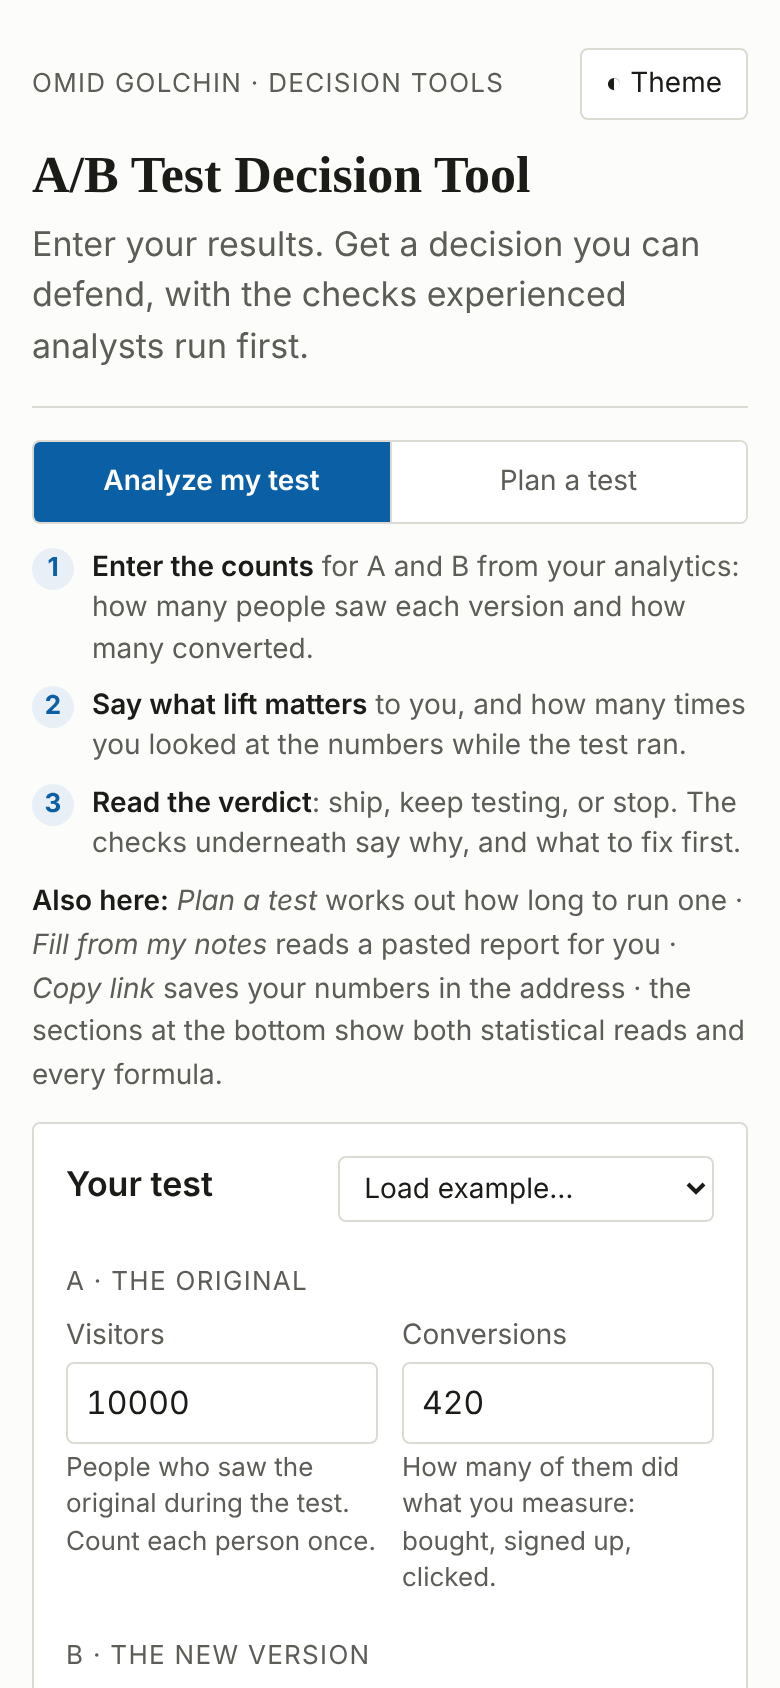
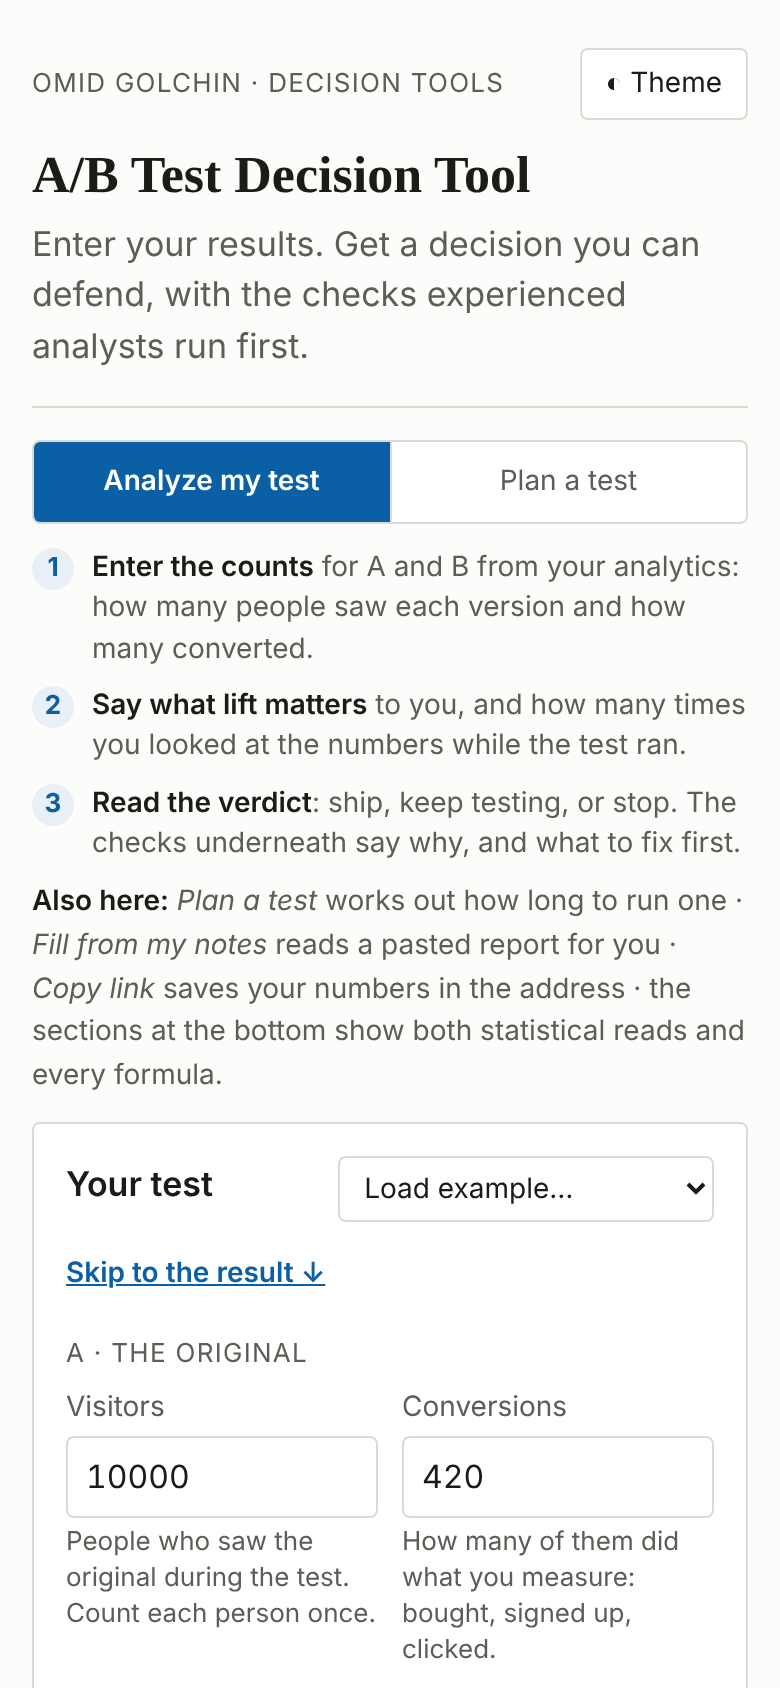
Plan examples, plainer settings, posterior and credible-interval explanations; one peeking figure everywhere
Kit: every ? has a hover title, a Skip to the result link on narrow screens, and an example banner for prefilled demo content. README, hero GIF and screenshots regenerated from the page.

Changed region(s): [[0.0615, 0.7393, 0.4923, 0.9858], [0.4615, 0.7701, 0.8923, 0.9858], [0.8923, 0.8318, 0.9231, 0.8626]]

diff --git a/docs/app.js b/docs/app.js
@@ -188,7 +188,7 @@
     if (v.checks <= 1) out.push(["ok", "OK", "Peeking", "Read once, so the plain p-value means what it says."]);
     else {
       var f = d.peekFpr;
-      out.push(["warn", "ADJUSTED", "Peeking", "Checked " + v.checks + " times. A plain p-value would be fooled " + (f ? "about " + Math.round(100 * f) + "%" : "nearly 30%") + " of the time instead of 5%, so this read uses the always-valid p-value (" + pFmt(d.alwaysValidP) + ")."]);
+      out.push(["warn", "ADJUSTED", "Peeking", "Checked " + v.checks + " times. A plain p-value would be fooled " + (f ? "about " + Math.round(100 * f) + "%" : "up to 29% (after 40 looks)") + " of the time instead of 5%, so this read uses the always-valid p-value (" + pFmt(d.alwaysValidP) + ")."]);
     }
     out.push(d.small
       ? ["warn", "SMALL", "Sample size", "Under 10 conversions or non-conversions in a version: intervals and p-values are unreliable here."]
@@ -297,6 +297,19 @@
   }
 
   /* ---------- plan ---------- */
+  var PLAN_EX = [
+    { label: "Busy checkout: 20,000 visitors a day at 4.2%", v: { pRate: 4.2, pMde: 5, pMdeUnit: "rel", pTraffic: 20000, pVersions: "2", pPower: "0.8", pAlpha: 5 } },
+    { label: "Small site: 600 a day at 3%, looking for a 20% lift", v: { pRate: 3, pMde: 20, pMdeUnit: "rel", pTraffic: 600, pVersions: "2", pPower: "0.8", pAlpha: 5 } },
+    { label: "Newsletter sign-up: 2,500 a day at 12%, three versions", v: { pRate: 12, pMde: 8, pMdeUnit: "rel", pTraffic: 2500, pVersions: "3", pPower: "0.8", pAlpha: 5 } },
+    { label: "Low-traffic B2B demo form: 150 a day at 2%", v: { pRate: 2, pMde: 30, pMdeUnit: "rel", pTraffic: 150, pVersions: "2", pPower: "0.8", pAlpha: 10 } }
+  ];
+  PLAN_EX.forEach(function (ex, i) { var o = document.createElement("option"); o.value = i; o.textContent = ex.label; $("pExample").appendChild(o); });
+  $("pExample").addEventListener("change", function () {
+    if (this.value === "") return;
+    var ex = PLAN_EX[+this.value]; this.value = "";
+    Object.keys(ex.v).forEach(function (k) { $(k).value = ex.v[k]; });
+    runPlan();
+  });
   function runPlan() {
     var v = { pRate: num("pRate"), pMde: num("pMde"), pMdeUnit: $("pMdeUnit").value, pTraffic: num("pTraffic"),
       pVersions: Number($("pVersions").value), pPower: Number($("pPower").value), pAlpha: num("pAlpha") };
@@ -356,7 +369,7 @@
   Tool.explain({
     lift: { t: "Lift: relative or points", d: "Two ways to say how much better B is. If A converts at 4.0% and B at 4.4%, the difference is 0.4 <i>points</i>, which is a 10% <i>relative</i> lift (0.4 ÷ 4.0). Pick whichever your team uses; the tool converts between them." },
     points: { t: "Difference in points", d: "B's conversion rate minus A's, in percentage points. 4.4% − 4.0% = +0.4 points." },
-    peeking: { t: "Why the number of looks matters", d: "A classic p-value assumes you read the result once. If you check daily and stop the first time it dips below 5%, the real chance of a false win can pass 25%. With more than one look the tool switches to an <i>always-valid</i> p-value, which stays honest however often you check." },
+    peeking: { t: "Why the number of looks matters", d: "A classic p-value assumes you read the result once. If you check daily and stop the first time it dips below 5%, the real chance of a false win climbs: in this repository's simulation of two identical versions, 29% after 40 looks. The verdict states the figure for your own number of looks. With more than one look the tool switches to an <i>always-valid</i> p-value, which stays honest however often you check." },
     srm: { t: "Broken split (sample ratio mismatch)", d: "If you planned 50/50 but got 10,000 vs 9,400 visitors, something in the setup is dropping or misrouting people, and the comparison is no longer fair. A chi-square test flags splits that chance alone almost never produces (p &lt; 0.001). Fix the setup before trusting any result." },
     interval: { t: "Reading the interval chart", d: "Each bar is the range of differences the data still allow, at 95%. The dot is the best estimate. If the whole bar sits right of zero, B is better; if it overlaps the shaded band, the gain could be too small to matter. The two rows use two methods (classic and Bayesian); they usually agree, and the tool tells you when they do not." },
     probbetter: { t: "Chance B is better", d: "From a Bayesian read of the same counts: given what the test saw, the probability that B's true rate is above A's. Unlike a p-value, it answers the question people actually ask. It is computed from Beta distributions for each rate." },
@@ -367,6 +380,8 @@
     avp: { t: "Always-valid p-value", d: "A p-value built to be checked repeatedly (a mixture sequential probability ratio test). It is slightly more conservative than the classic one, and in exchange the false-win rate stays at your significance level no matter how many times you looked." },
     power: { t: "Power", d: "The chance the test detects the lift if the lift is real. At 80%, one real improvement in five is missed. More visitors raise power." },
     mde: { t: "Detectable lift", d: "The smallest lift the test can reliably catch (at your power and significance level). It shrinks with the square root of the visitors: four times the traffic halves it." },
+    posterior: { t: "Posterior", d: "What the data say each version's true conversion rate could be, as a probability curve: Bayes' rule combines your prior belief with the counts. Tall and narrow means the rate is pinned down; wide means it is still uncertain." },
+    credible: { t: "Credible interval", d: "The Bayesian counterpart of a confidence interval: given the data (and the prior), there is a 95% probability the true difference lies inside it. With a flat prior and this much data it is usually almost the same as the classic 95% interval." },
     weeks: { t: "Why whole weeks", d: "Visitors on weekends often behave differently from weekdays. Ending mid-week over-weights some days, so the run is rounded up to whole weeks." }
   });
 

diff --git a/docs/index.html b/docs/index.html
@@ -50,10 +50,10 @@
           <div class="group-label">B · the new version</div>
           <div class="field"><label for="nB">Visitors</label><input id="nB" type="number" min="1" step="1" inputmode="numeric"><div class="hint">People who saw the new version.</div></div>
           <div class="field"><label for="xB">Conversions</label><input id="xB" type="number" min="0" step="1" inputmode="numeric"><div class="hint">How many of them converted, counted the same way as for A.</div></div>
-          <div class="group-label">About the test</div>
+          <div class="group-label">About the test: the starting values are safe defaults</div>
           <div class="field full"><label for="mde">Smallest lift worth acting on <button type="button" data-tip="lift"></button></label>
             <div class="with-unit"><input id="mde" type="number" min="0" step="any" aria-describedby="mdeHint"><select id="mdeUnit" aria-label="Unit for the lift"><option value="rel">% relative</option><option value="abs">points</option></select></div>
-            <div class="hint" id="mdeHint">The smallest improvement that would change what you do. A smaller difference than this counts as "no real difference".</div>
+            <div class="hint" id="mdeHint">The smallest improvement that would change what you do; only the four counts above are required, everything below can stay as it is. This one number also sets what counts as "no meaningful difference" and how much expected loss is tolerable, so choose it before you look at the result.</div>
           </div>
           <div class="field"><label for="checks">Times you checked the results <button type="button" data-tip="peeking"></button></label><input id="checks" type="number" min="1" step="1" inputmode="numeric"><div class="hint">Count every look, including this one. Each extra look raises the chance of a false win, so the tool corrects for it.</div></div>
           <div class="field"><label for="days">Days it has run <span class="muted">(optional)</span></label><input id="days" type="number" min="0" step="1" inputmode="numeric"><div class="hint">Checks that the test covered whole weeks, since weekdays and weekends differ.</div></div>
@@ -90,7 +90,7 @@
     </section>
 
     <details class="more" id="moreSettings">
-      <summary>Decision settings <span class="sub">when to ship, prior beliefs</span></summary>
+      <summary>Decision settings <span class="sub">for experienced users; the defaults are standard and safe to leave</span></summary>
       <div class="more-body">
         <div class="fields" style="max-width:640px">
           <div class="field"><label for="shipProb">Ship when the chance of being better is at least <button type="button" data-tip="probbetter"></button></label><div class="input-wrap"><input id="shipProb" type="number" min="50" max="99.9" step="any"><span class="unit">%</span></div><div class="hint">How sure you want to be before shipping. 95% is a common bar; raise it when a wrong ship is costly.</div></div>
@@ -108,9 +108,9 @@
       <div class="more-body">
         <div class="grid">
           <div><h3>Classic read</h3><div class="table-scroll"><table id="tClassic"></table></div></div>
-          <div><h3>Bayesian read</h3><div class="table-scroll"><table id="tBayes"></table></div></div>
+          <div><h3>Bayesian read <button type="button" data-tip="credible"></button></h3><div class="table-scroll"><table id="tBayes"></table></div></div>
         </div>
-        <h3 style="margin-top:16px">Where each version's true rate plausibly lies</h3>
+        <h3 style="margin-top:16px">Where each version's true rate plausibly lies <button type="button" data-tip="posterior"></button></h3>
         <div class="svgchart" id="postChart"></div>
       </div>
     </details>
@@ -143,7 +143,8 @@ d = rate_B − rate_A,  V = its variance,  τ = smallest lift worth acting on (p
     </div>
     <div class="work">
       <form class="panel" id="f-plan" novalidate onsubmit="return false">
-        <div class="panel-head"><h2>Your plan</h2></div>
+        <div class="panel-head"><h2>Your plan</h2>
+          <select class="example" id="pExample" aria-label="Load an example plan"><option value="">Load example…</option></select></div>
         <div class="fields">
           <div class="field"><label for="pRate">Current conversion rate</label><div class="input-wrap"><input id="pRate" type="number" min="0.01" max="99" step="any"><span class="unit">%</span></div><div class="hint">What the page converts at today. Take a typical recent week from your analytics.</div></div>
           <div class="field"><label for="pMde">Smallest lift worth detecting <button type="button" data-tip="lift"></button></label>

diff --git a/docs/tool-common.js b/docs/tool-common.js
@@ -9,6 +9,7 @@
  *   Tool.explain(glossary)         "?" buttons that open a plain-language explanation
  *   Tool.siblings(currentRepo)     the "More tools" footer line, from one shared list
  *   Tool.tabs(tablist)             arrow-key support for a mode switch
+ *   Tool.exampleBanner(form, text) marks prefilled example content where it sits
  *
  * No dependencies. Works from file:// and on GitHub Pages.
  */
@@ -433,6 +434,7 @@
       if (btn.tagName === "BUTTON") btn.type = "button";
       if (!btn.textContent.trim()) btn.textContent = "?";
       btn.setAttribute("aria-label", "What is " + g.t.replace(/[.?:]$/, "") + "?");
+      btn.title = "Explain: " + g.t.replace(/[.?:]$/, "");
       btn.setAttribute("aria-expanded", "false");
       // keep the "?" on the same line as the last word before it
       var prev = btn.previousSibling;
@@ -531,16 +533,45 @@
     sync(); new MutationObserver(sync).observe(list, { subtree: true, attributes: true, attributeFilter: ["aria-selected"] });
   }
 
+
+  /* ---------------- example banner, jump to result ---------------- */
+  // Marks prefilled example content where it sits, so a first-time visitor
+  // does not read the demo verdict as their own. text = null hides it.
+  function exampleBanner(form, text) {
+    if (!form) return;
+    var b = form.querySelector(":scope > .ex-banner");
+    if (!text) { if (b) b.hidden = true; return; }
+    if (!b) {
+      b = document.createElement("p"); b.className = "ex-banner"; b.setAttribute("role", "status");
+      var head = form.querySelector(":scope > .panel-head");
+      if (head && head.nextSibling) form.insertBefore(b, head.nextSibling); else form.insertBefore(b, form.firstChild);
+    }
+    b.hidden = false;
+    b.innerHTML = '<span class="ex-tag">Example</span> ' + text;
+  }
+  // On narrow screens the inputs come first; give a way straight to the result.
+  function jumpLinks() {
+    document.querySelectorAll(".work").forEach(function (w, i) {
+      var form = w.querySelector("form.panel"), v = w.querySelector(".verdict");
+      if (!form || !v || form.querySelector(".jump")) return;
+      if (!v.id) v.id = "result-" + i;
+      var a = document.createElement("a"); a.className = "jump"; a.href = "#" + v.id; a.textContent = "Skip to the result ↓";
+      var head = form.querySelector(":scope > .panel-head");
+      if (head && head.nextSibling) form.insertBefore(a, head.nextSibling); else form.insertBefore(a, form.firstChild);
+    });
+  }
+
   if (typeof document !== "undefined") {
     document.addEventListener("DOMContentLoaded", function () {
       var m = location.pathname.match(/\/([^\/]+)\/(?:docs\/)?(?:index\.html)?$/);
       siblings(m ? m[1] : "");
       tabs();
       alignFields();
+      jumpLinks();
     });
   }
 
-  var api = { explain: explain, alignFields: alignFields, closeTip: closeTip, siblings: siblings, tabs: tabs, TOOLS: TOOLS, readParams: readParams, writeParams: writeParams, copy: copy, fmt: fmt, lineChart: lineChart, niceTicks: niceTicks, assist: assist, _buildPrompt: buildPrompt, _parseReply: parseReply, _quoteFound: quoteFound, _coerce: coerce };
+  var api = { explain: explain, alignFields: alignFields, exampleBanner: exampleBanner, jumpLinks: jumpLinks, closeTip: closeTip, siblings: siblings, tabs: tabs, TOOLS: TOOLS, readParams: readParams, writeParams: writeParams, copy: copy, fmt: fmt, lineChart: lineChart, niceTicks: niceTicks, assist: assist, _buildPrompt: buildPrompt, _parseReply: parseReply, _quoteFound: quoteFound, _coerce: coerce };
   if (typeof module !== "undefined" && module.exports) module.exports = api;
   if (typeof window !== "undefined") window.Tool = api;
 })();

diff --git a/docs/tool.css b/docs/tool.css
@@ -138,3 +138,7 @@ select.example { font-size: var(--fs-small); }
 .fields.sg-on > :not(.sg) { margin-bottom: var(--sp-3); }
 .fields.sg-on > .group-label { margin: var(--sp-2) 0 6px; }
 .field-after:empty { display: none; }
+.ex-banner { margin: 0 0 var(--sp-3); padding: 6px 10px; border-radius: var(--radius); background: var(--accent-soft); color: var(--fg); font-size: var(--fs-small); line-height: 1.45; }
+.ex-banner .ex-tag { display: inline-block; font-size: var(--fs-caption); font-weight: 700; letter-spacing: .04em; text-transform: uppercase; color: var(--accent); margin-right: 4px; }
+.jump { display: none; }
+@media (max-width: 820px) { .jump { display: inline-block; margin: 0 0 var(--sp-3); font-size: var(--fs-small); font-weight: 600; } }

diff --git a/README.md b/README.md
@@ -21,7 +21,7 @@ For anyone who has run an A/B test and has to decide what to do next: enter visi
 | Check | What it catches |
 |---|---|
 | Traffic split | Visitor counts that do not match the planned split (sample ratio mismatch): usually a tracking or assignment bug that biases everything else. The verdict becomes "Don't trust this test yet." |
-| Peeking | If you looked at the results more than once, a plain p-value is fooled far more often than 5% (about 20% after 12 looks). The tool switches to an always-valid p-value. |
+| Peeking | If you looked at the results more than once, a plain p-value is fooled far more often than 5% (29% after 40 looks in this repository's simulation; the check states the figure for your own number of looks). The tool switches to an always-valid p-value. |
 | No meaningful difference | An equivalence test, so "stop, the difference is too small to matter" is a verdict, not a shrug. |
 | Sample size | Too few conversions for the approximations to hold. |
 | Test length | Tests shorter than a week, or not in whole weeks, over- or under-represent weekdays. |
